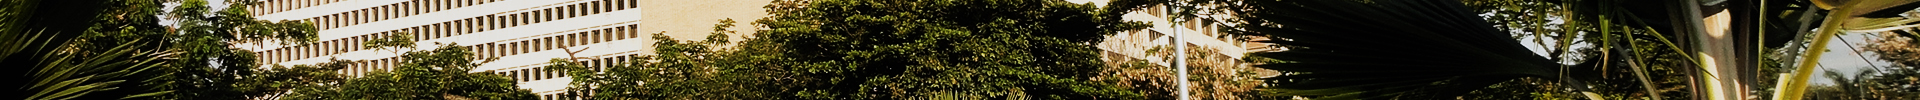
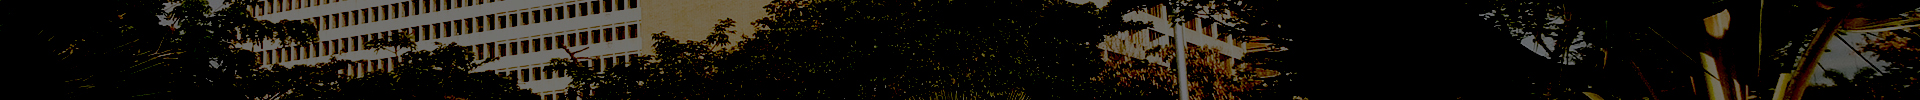
novo masshead: mais escuro e de volta ao mobile

diff --git a/themes/temaic/static/css/style.css b/themes/temaic/static/css/style.css
@@ -302,7 +302,6 @@ body > header a:hover {
 
 .masshead h1 {
 	color: var(--cor-texto-branco);
-	background-color: rgba(0, 0, 0, 1);
 	padding: 15px;
 	border-radius: 10px;
 
@@ -452,12 +451,11 @@ body > header a:hover {
 		align-items: center;
 		justify-content: center;
 
-		background: none;
+		/*background: none;*/
 	}
 
 	.masshead h1 {
-		color: var(--cor-texto);
-		background-color: rgba(0, 0, 0, 0);
+		/*color: var(--cor-texto);*/
 		line-height: 1.2em;
 
 		font-size: 25px;
